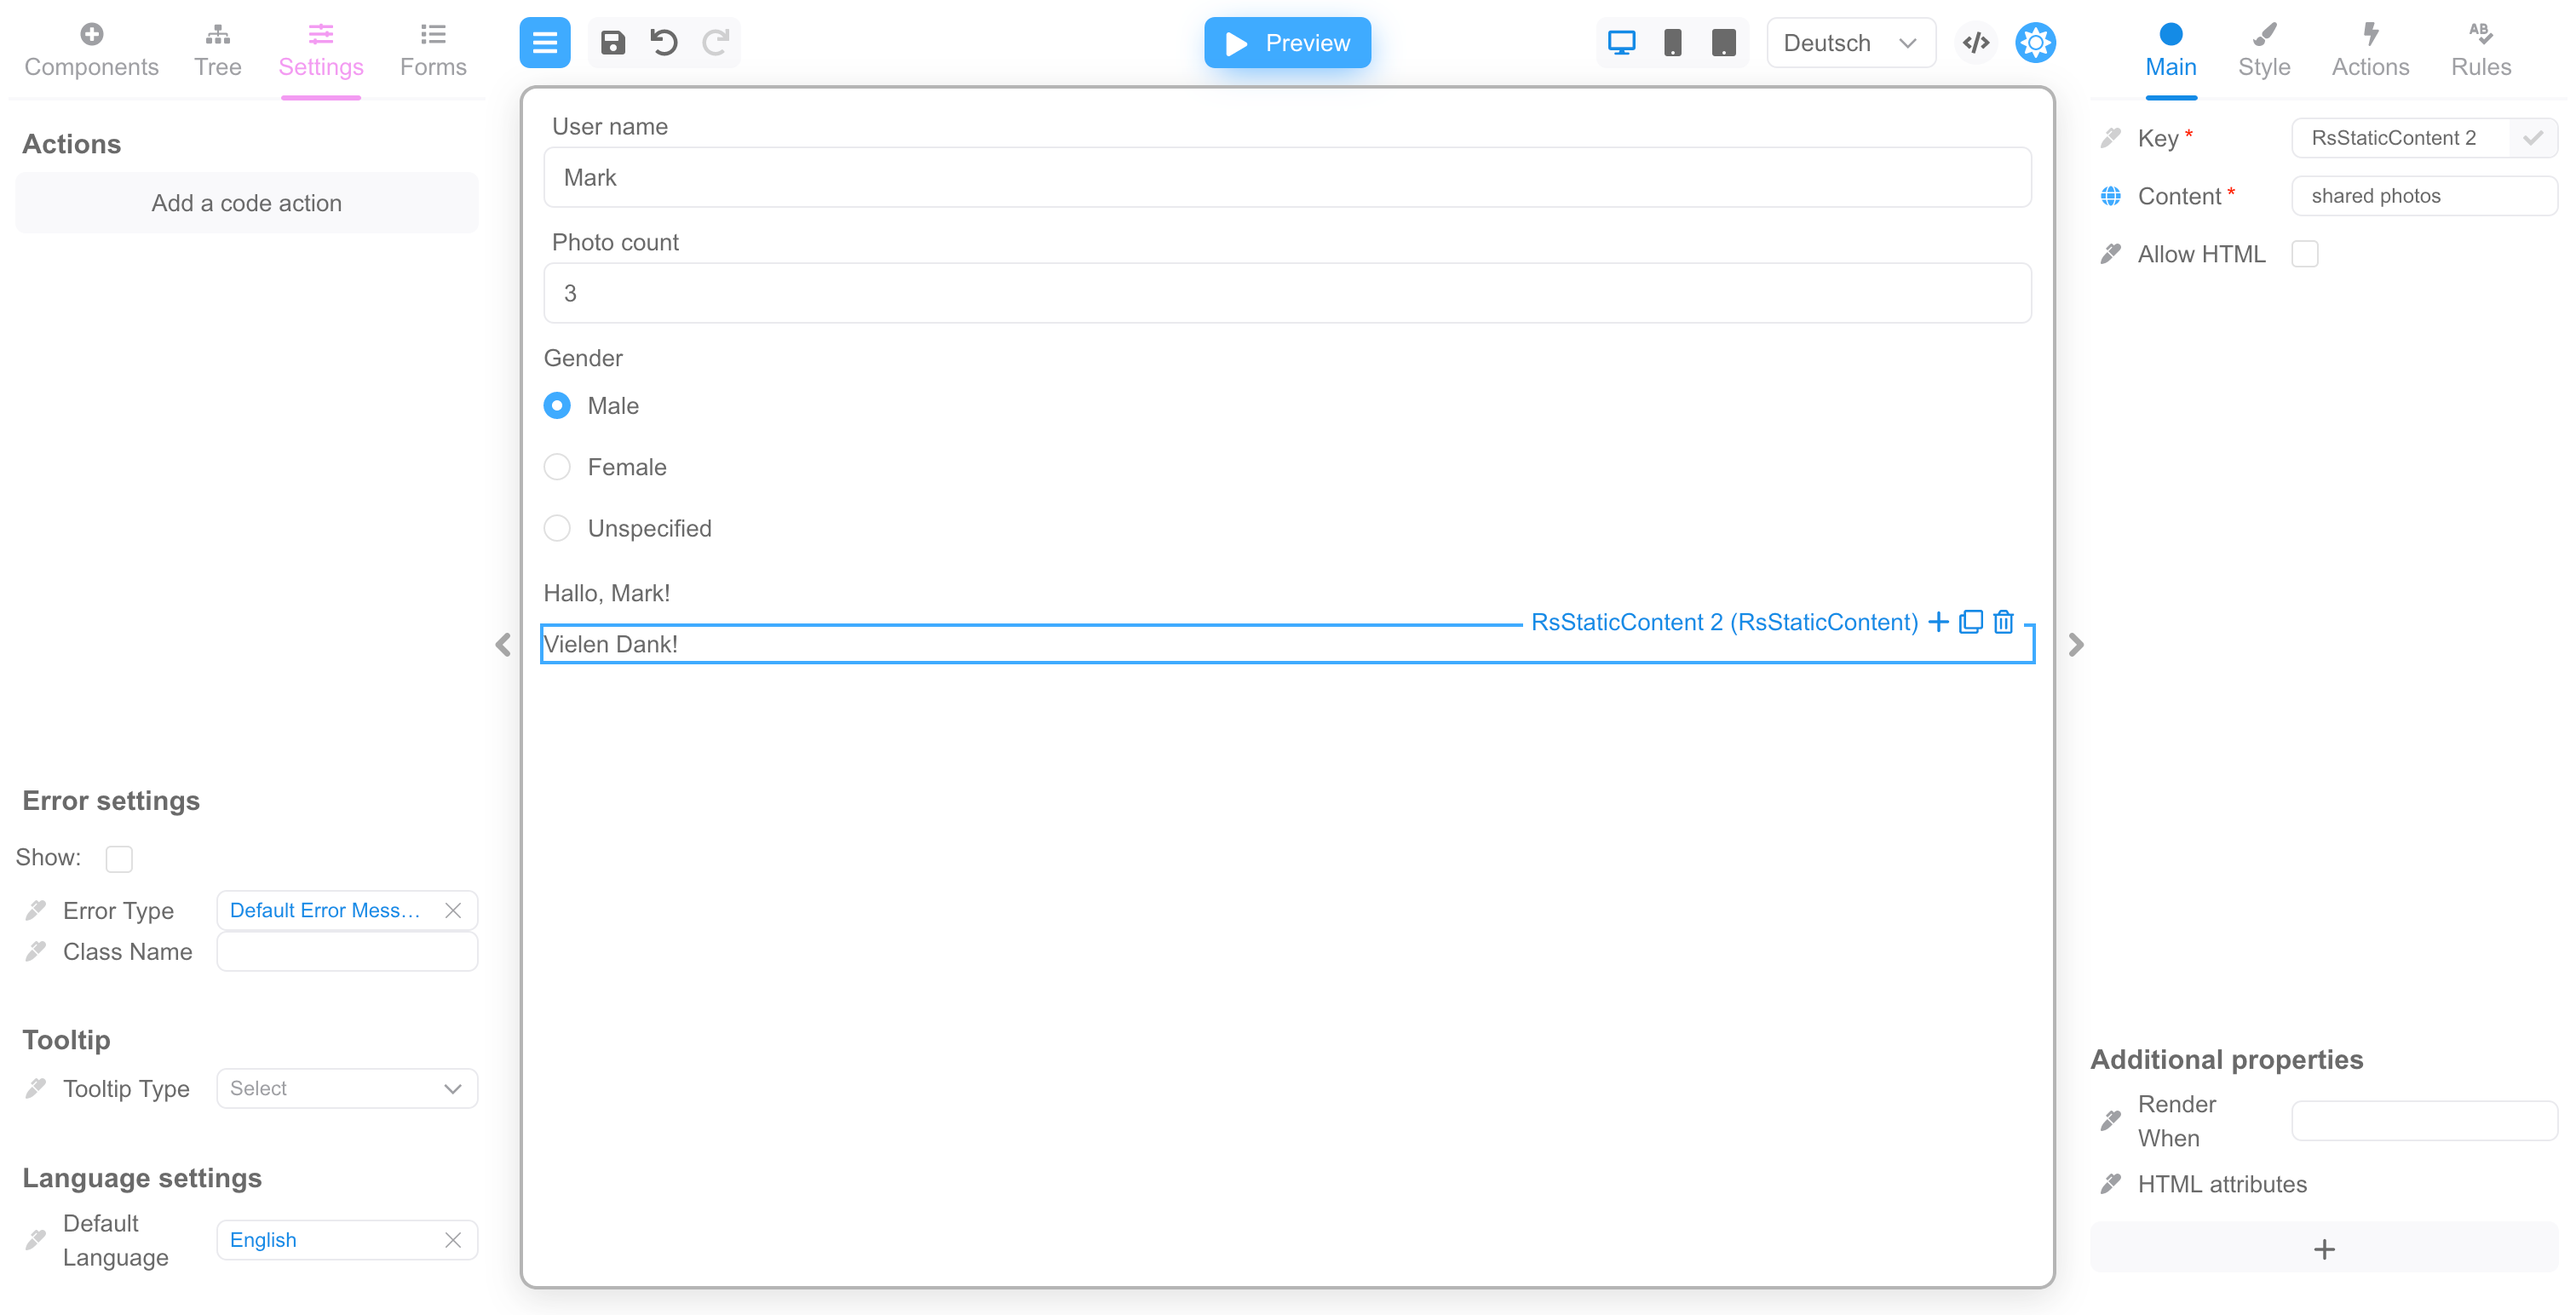
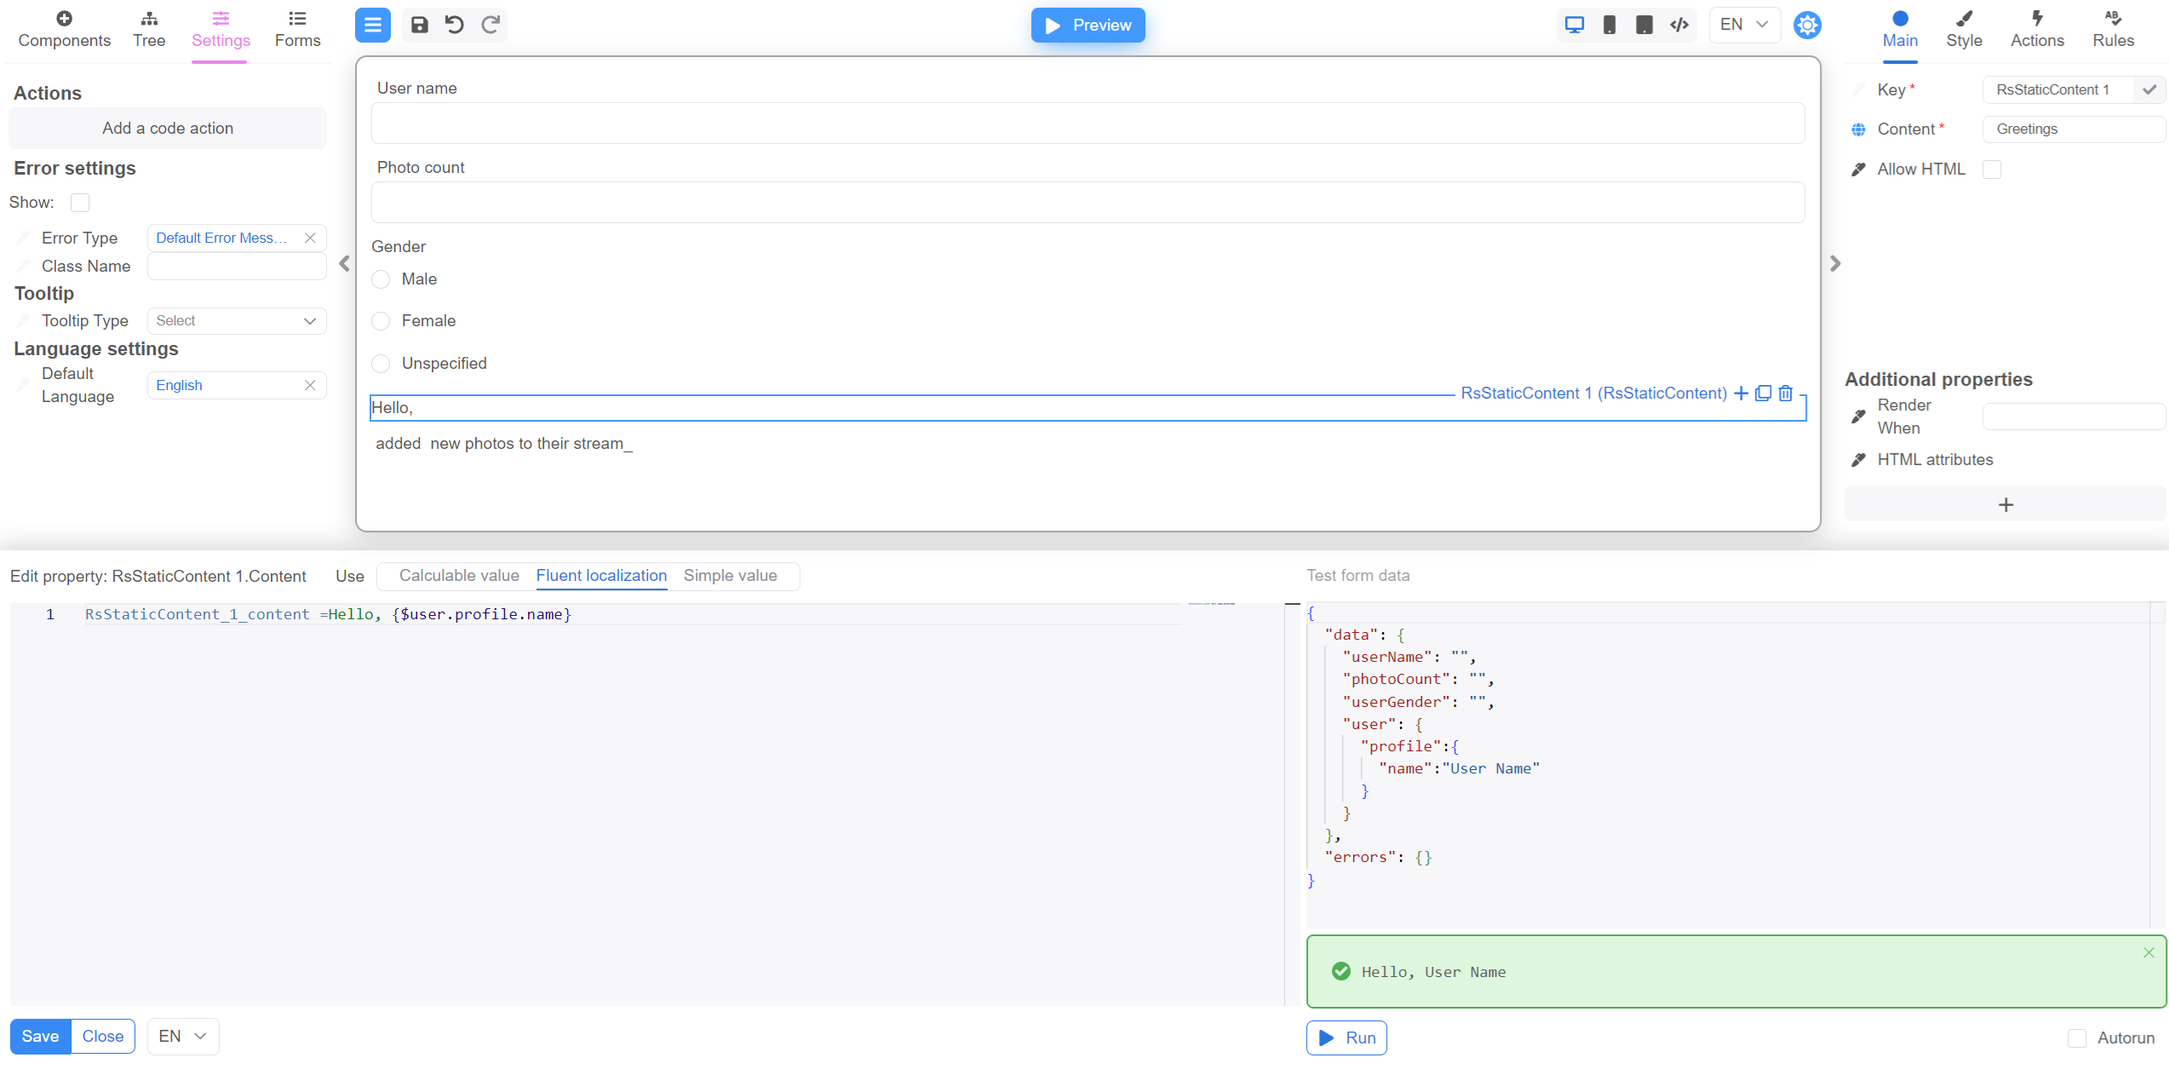
FE-969 Add the ability to work with objects in localization (#928)

diff --git a/packages/core/src/features/localization/getFluentData.ts b/packages/core/src/features/localization/getFluentData.ts
@@ -1,20 +1,25 @@
 import type {FluentVariable} from '@fluent/bundle/esm/bundle'
+import {dotInternalValue} from './dots'
 import {getFluentCompatibleId} from './getFluentCompatibleId'
 import {isFluentVariable} from './isFluentVariable'
 
 /**
  * Converts the form data to a Fluent compatible. **Internal use only.**
  * @param data the form data.
+ * @param parentKey the parent property key.
  * @returns all the form data that is of the FluentVariable type.
  * Additionally, the keys of the returned object are converted to the snake case.
  */
-export const getFluentData = (data: Record<string, unknown>) => {
+export const getFluentData = (data: Record<string, unknown>, parentKey = ''): Record<string, FluentVariable> => {
   const fluentData: Record<string, FluentVariable> = {}
   for (const [key, value] of Object.entries(data)) {
+    const newKey = parentKey ? `${parentKey}${dotInternalValue}${key}` : key
     if (isFluentVariable(value)) {
-      fluentData[getFluentCompatibleId(key)] = value
+      fluentData[getFluentCompatibleId(newKey)] = value
     } else if (typeof value === 'boolean') {
-      fluentData[getFluentCompatibleId(key)] = value ? 'true' : 'false'
+      fluentData[getFluentCompatibleId(newKey)] = value ? 'true' : 'false'
+    } else if (typeof value === 'object' && value !== null) {
+      Object.assign(fluentData, getFluentData(value as Record<string, unknown>, newKey))
     }
   }
   return fluentData

diff --git a/packages/core/src/features/localization/localizer.ts b/packages/core/src/features/localization/localizer.ts
@@ -8,6 +8,7 @@ import type {LocalizationType} from '../../stores/LocalizationStore'
 import {CalculableResult} from '../../utils/CalculableResult'
 import type {IFormData} from '../../utils/IFormData'
 import {getValidatorPropertyBlockType} from '../ui/PropertyBlockType'
+import {replaceDots, restoreDots} from './dots'
 import {getFluentCompatibleId} from './getFluentCompatibleId'
 import type {Language} from './types'
 
@@ -39,6 +40,7 @@ export type LocalizationTestRequest = {
  * @returns the localization testing result.
  */
 export const testFluentLocalization = (request: LocalizationTestRequest): CalculableResult => {
+  request.localization = replaceDots(request.localization)
   const localizationSting = `${request.localizationStringId} = ${request.localization}`
   const resource = new FluentResource(localizationSting)
   const bundle = new FluentBundle(`${request.language.fullCode}`)
@@ -132,7 +134,7 @@ function createLocalizationDataProxy(localizationData: Record<string, any>, miss
       if (property in target) {
         return target[property]
       }
-      missingProperties.push(property)
+      missingProperties.push(restoreDots(property))
       return ''
     },
     getOwnPropertyDescriptor(target, property) {

diff --git a/packages/core/src/stores/LocalizationStore.ts b/packages/core/src/stores/LocalizationStore.ts
@@ -1,5 +1,6 @@
 import {FluentBundle, FluentResource} from '@fluent/bundle'
 import {makeAutoObservable} from 'mobx'
+import {replaceDots} from '../features/localization/dots'
 import {getFluentCompatibleId} from '../features/localization/getFluentCompatibleId'
 import {nameObservable} from '../utils/observableNaming'
 
@@ -85,7 +86,9 @@ class FluentBundleHolder {
     Object.entries(componentsLocalization).forEach(([componentKey, allComponentsLocalizationConstants]) => {
       Object.entries(allComponentsLocalizationConstants ?? {}).forEach(([type, componentLocalizationConstants]) => {
         Object.entries(componentLocalizationConstants ?? {}).forEach(([propertyName, localizationConstant]) => {
-          if (localizationConstant) localizationItems.push(`${componentKey}_${type}_${propertyName} = ${localizationConstant}`)
+          if (localizationConstant) {
+            localizationItems.push(`${componentKey}_${type}_${propertyName} = ${replaceDots(localizationConstant)}`)
+          }
         })
       })
     })

diff --git a/packages/core/src/features/localization/dots.ts b/packages/core/src/features/localization/dots.ts
@@ -1,0 +1,28 @@
+/**
+ * The character used to represent a dot.
+ */
+const dotCharacter = '.'
+
+/**
+ * The internal value used to replace dots in object keys.
+ */
+export const dotInternalValue = '__DOT__'
+
+/**
+ * Replaces all dots in the value with a special character.
+ * @param value the value to replace the dots.
+ * @returns the value with the dots replaced.
+ */
+export function restoreDots(value: string): string {
+  return value.replace(new RegExp(`\\${dotInternalValue}`, 'g'), dotCharacter)
+}
+
+/**
+ * Replaces all special characters with dots.
+ * @param value the value to replace the special characters.
+ * @returns the value with the special characters replaced.
+ */
+export function replaceDots(value: string): string {
+  return value.replace(new RegExp(`\\${dotCharacter}`, 'g'), dotInternalValue)
+}
+

diff --git a/documentation/docs/features/localization.md b/documentation/docs/features/localization.md
@@ -228,10 +228,15 @@ automatically when the data changes. To save the data - click the "Save" button.
 
 ![Localization 08](/assets/localization/localization-08.png)
 
+Also if you need to access data within nested objects, you can do so using dot notation. This method allows you to retrieve values at deeper
+levels by specifying the full path.
+
+![Localization 09](/assets/localization/localization-09.png)
+
 Click the "Close" button to close the localization editor. Change the language of the form in the switch above, as on the screenshot - the
 text will change to the one we just wrote.
 
-![Localization 09](/assets/localization/localization-09.png)
+![Localization 09](/assets/localization/localization-10.png)
 
 ## Custom localization
 

diff --git a/documentation/docs/api-reference/@react-form-builder/core/functions/getFluentData.md b/documentation/docs/api-reference/@react-form-builder/core/functions/getFluentData.md
@@ -1,6 +1,6 @@
 # Function: getFluentData()
 
-> **getFluentData**(`data`): `Record`\<`string`, `FluentVariable`\>
+> **getFluentData**(`data`, `parentKey`): `Record`\<`string`, `FluentVariable`\>
 
 Converts the form data to a Fluent compatible. **Internal use only.**
 
@@ -9,6 +9,10 @@ Converts the form data to a Fluent compatible. **Internal use only.**
 • **data**: `Record`\<`string`, `unknown`\>
 
 the form data.
+
+• **parentKey**: `string` = `''`
+
+the parent property key.
 
 ## Returns
 
